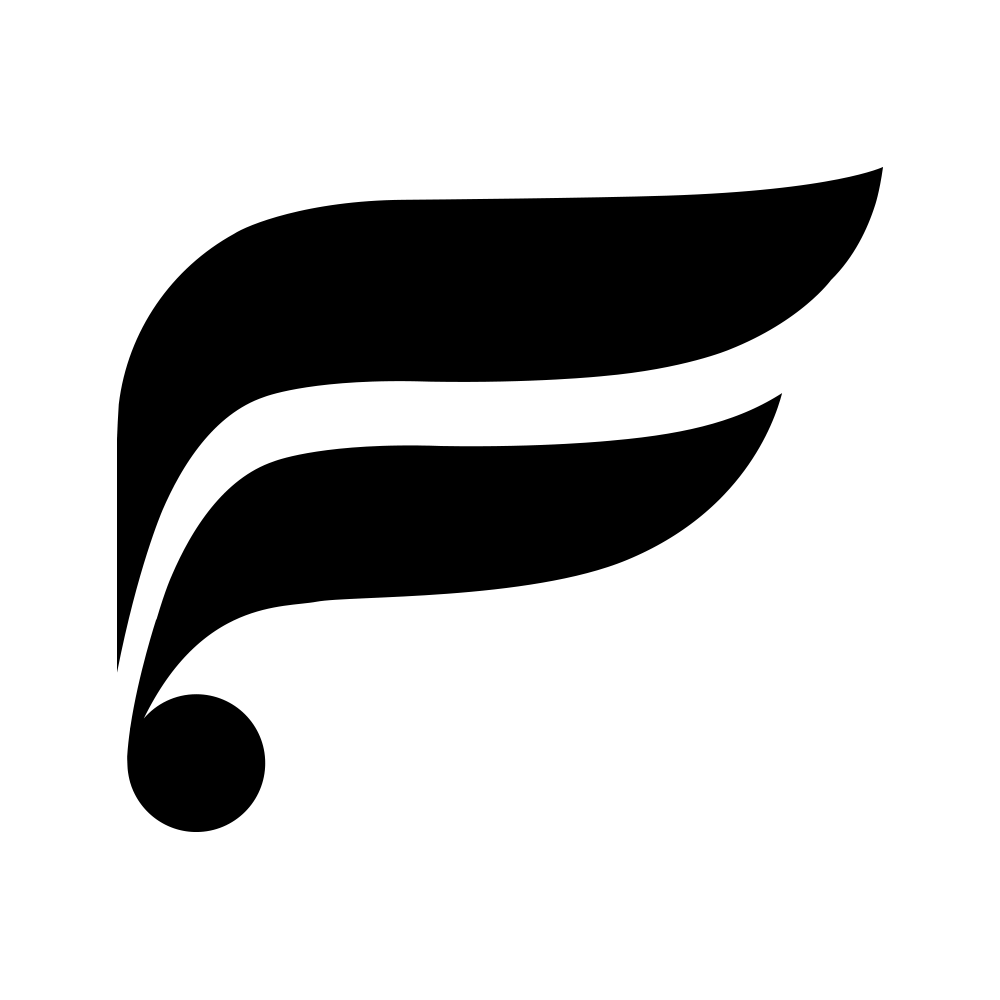
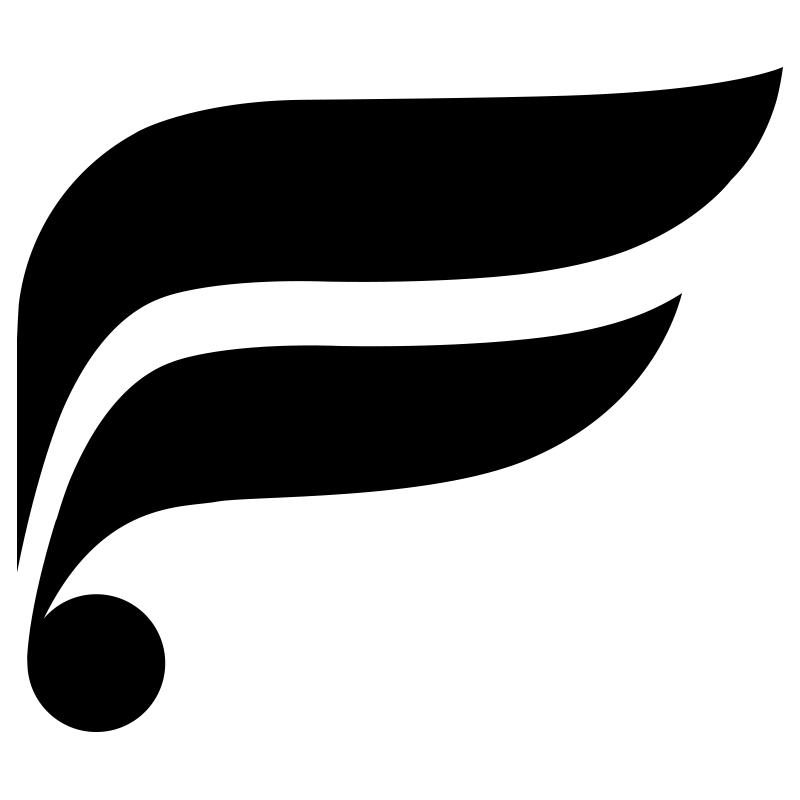
better images

Changed region(s): [[0.0, 0.0938, 1.0, 0.9375]]

diff --git a/src/index.worker.ts b/src/index.worker.ts
@@ -29,7 +29,7 @@ export const siteData: SiteData = {
         <div class="flex flex-col items-center justify-between text-center">
           <div class="m-2">
             <a href="https://rushtix.com">
-              <img src="THEME_FILE_ROOT/icon.png" class="w-12 h-12" />
+              <img src="THEME_FILE_ROOT/icon-black-small.png" class="w-12 h-12" />
             </a>
           </div>
           <h1 class="font-heading mt-3 mb-6 text-xl md:text-2xl max-h-28 md:max-h-32 overflow-hidden">TOPIC_TITLE</h1>
@@ -48,7 +48,7 @@ export const siteData: SiteData = {
     saveButtonLabel: "Save my request",
     nameScreenHeader: `
       <div class="my-2 flex flex-col items-center">
-        <img src="THEME_FILE_ROOT/icon.png" class="w-16 h-16" />
+        <img src="THEME_FILE_ROOT/icon-black-small.png" class="w-16 h-16" />
       </div>
     `,
   },
@@ -60,7 +60,7 @@ export const siteData: SiteData = {
           <p class="mt-12 mb-12 mx-3 text-center">This invitation is no longer accepting <span class="whitespace-nowrap">shout out requests.</span></p>
           <div class="m-2">
             <a href="https://rushtix.com">
-              <img src="THEME_FILE_ROOT/logo.png" style="width: 220px; height: 39px; margin: 0 auto;" />
+              <img src="THEME_FILE_ROOT/logo-small.png" style="width: 250px; height: 33px; margin: 0 auto;" />
             </a>
             <p class="mt-12 mb-12 mx-3 text-center">You'll receive your shout out video from <b>INVITATION_DISPLAY_NAME</b> via email when <span class="whitespace-nowrap">it's ready.</span></p>
           </div>
@@ -76,7 +76,7 @@ export const siteData: SiteData = {
           <p class="mt-12 mb-12 mx-3 text-center">Nice work! Your video request for <b>INVITATION_DISPLAY_NAME</b> <span class="whitespace-nowrap">was sent.</span></p>
           <div class="m-2">
             <a href="https://rushtix.com">
-              <img src="THEME_FILE_ROOT/logo.png" style="width: 220px; height: 39px; margin: 0 auto;" />
+              <img src="THEME_FILE_ROOT/-small.png" style="width: 250px; height: 33px; margin: 0 auto;" />
             </a>
             <p class="mt-12 mb-12 mx-3 text-center">You'll receive your shout out video from <b>INVITATION_DISPLAY_NAME</b> via email when <span class="whitespace-nowrap">it's ready.</span></p>
           </div>
